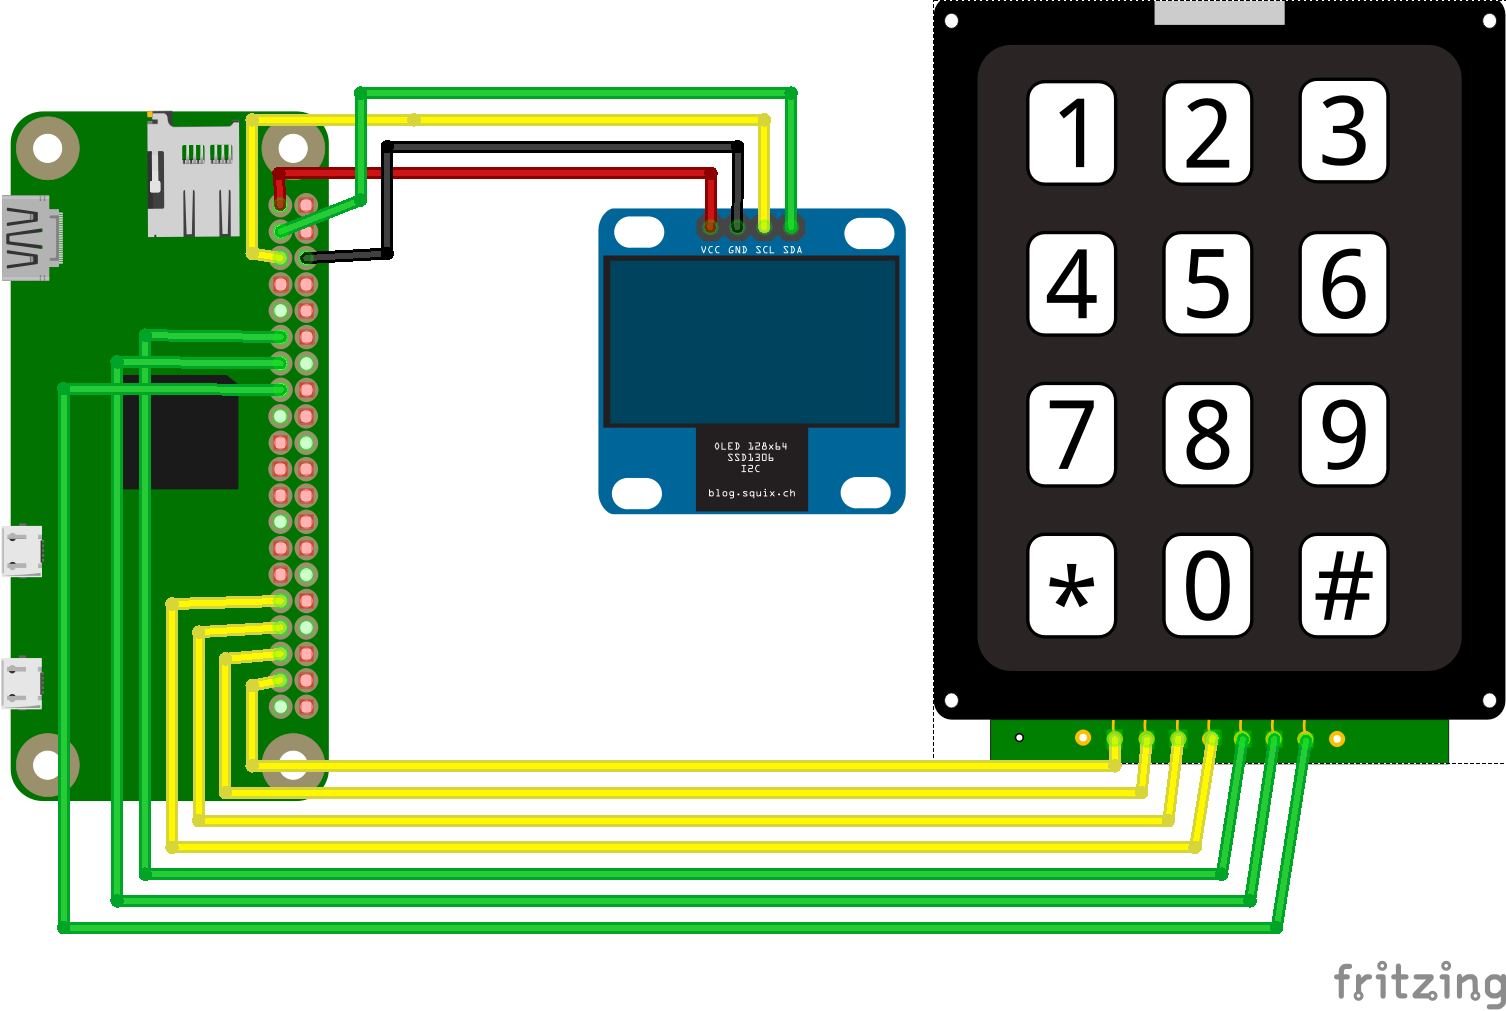
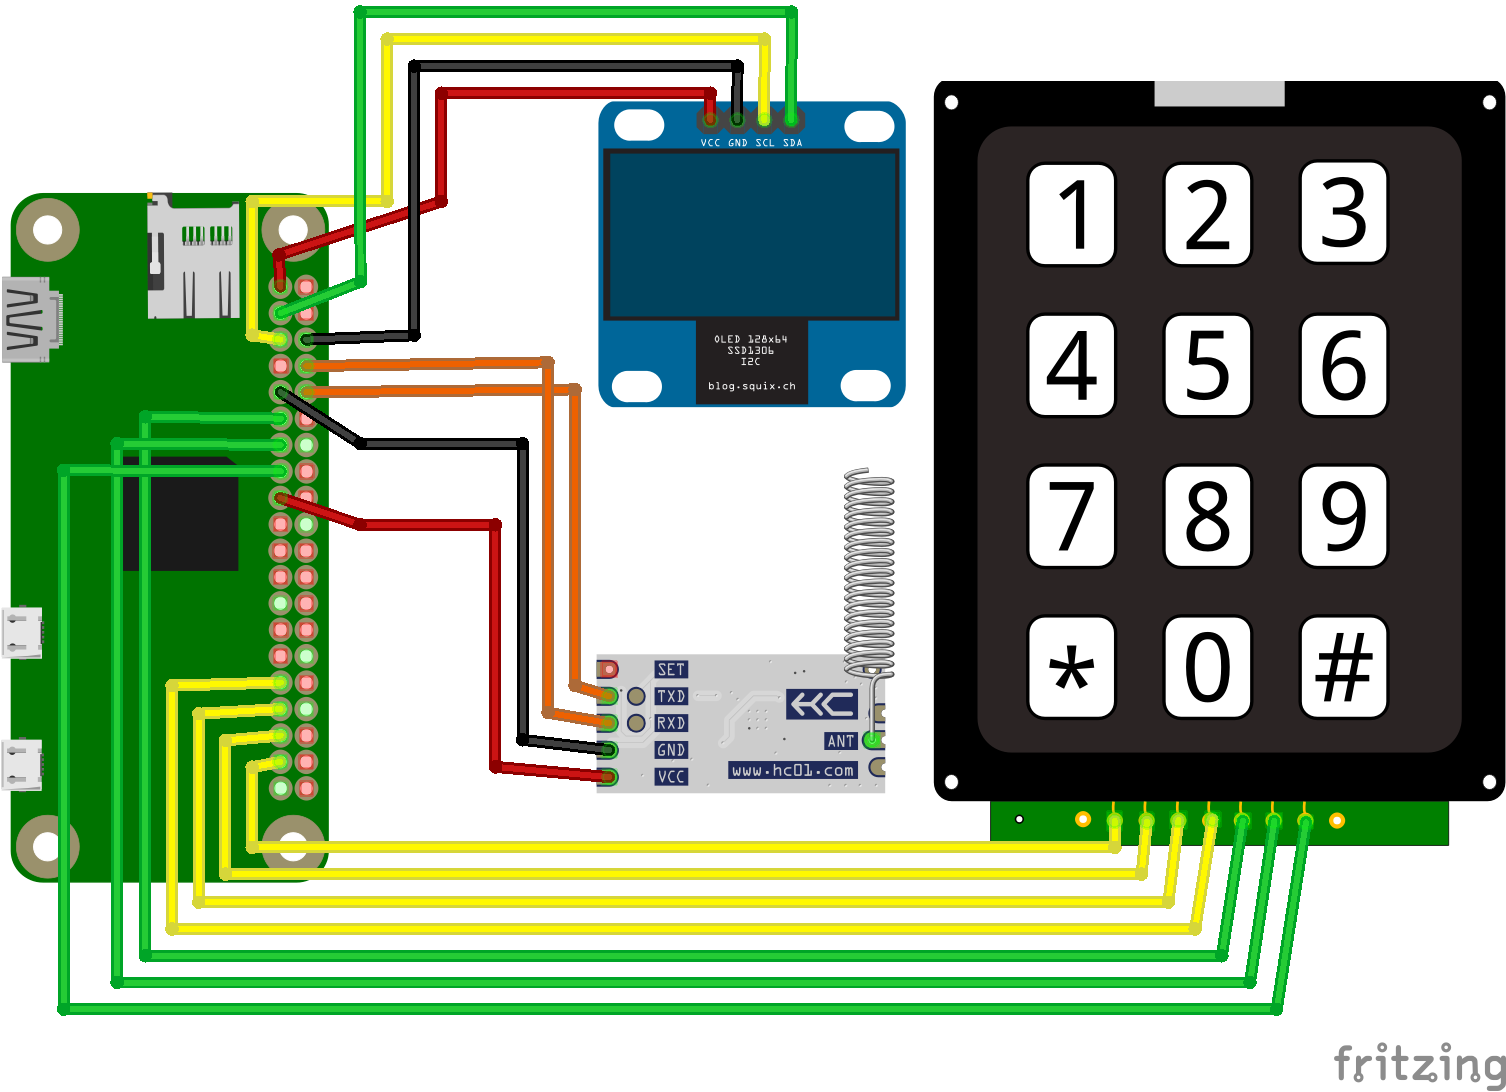
Added Radio Support and Added Comments to Talalib

diff --git a/talalib.py b/talalib.py
@@ -1,5 +1,7 @@
 import time
 
+import serial
+
 import Adafruit_GPIO.SPI as SPI
 import Adafruit_SSD1306
 
@@ -23,19 +25,25 @@ class Tala():
         self.width = self.display.width
         self.height = self.display.height
 
+        # Setup Radio
+        self.radio = serial.Serial("/dev/serial0", baudrate=9600, timeout=1)
 
         # Setup Keypad
         GPIO.setmode(GPIO.BCM)
 
+        # Tell the Raspberry Pi that each row on the keypad is an output
         GPIO.setup(26, GPIO.OUT) # row 1
         GPIO.setup(19, GPIO.OUT) # row 2
         GPIO.setup(13, GPIO.OUT) # row 3
         GPIO.setup(6, GPIO.OUT) # row 4
 
+        # Tell the Raspberry Pi that each column on the keypad is an input and
+        # should have an (internal) pull down resistor.
         GPIO.setup(17, GPIO.IN, pull_up_down=GPIO.PUD_DOWN) # col 1
         GPIO.setup(27, GPIO.IN, pull_up_down=GPIO.PUD_DOWN) # col 2
         GPIO.setup(22, GPIO.IN, pull_up_down=GPIO.PUD_DOWN) # col 3
 
+        # Turn keypad rows off.
         GPIO.output(26, GPIO.LOW)
         GPIO.output(19, GPIO.LOW)
         GPIO.output(13, GPIO.LOW)
@@ -44,11 +52,15 @@ class Tala():
     def singlebutton(self, wait=0.05):
         key = ""
 
+        # Loop while we haven't got a key
         while key == "":
+            # Turn on row 1 but turn off every other row
             GPIO.output(26, GPIO.HIGH)
             GPIO.output(19, GPIO.LOW)
             GPIO.output(13, GPIO.LOW)
             GPIO.output(6, GPIO.LOW)
+            # If the first column is turned on we know that the first
+            # button has been pressed and so on.
             if GPIO.input(17):
                 key = "1"
             if GPIO.input(27):
@@ -93,12 +105,19 @@ class Tala():
         return key
 
     def type(self, wait=0.5):
+        # Make a new image/canvas with the width and height of the screen.
         image = Image.new("1", (self.width, self.height))
+        # Make a new draw variable which draws shapes/text to the screen.
         draw = ImageDraw.Draw(image)
 
+        # Define the fonts
         bigfont = ImageFont.truetype("leco1976.ttf", 45)
         font = ImageFont.truetype("FreePixel.ttf", 14)
 
+        # Define the characters to cycle for each key on the keypad
+        # Special:
+        #   _ = Space
+        #   <- = Backspace
         keypadkeys = {
             "2": ["a", "b", "c"],
             "3": ["d", "e", "f"],
@@ -168,21 +187,32 @@ class Tala():
                 doloop = False
 
             if key != "":
+                # If the key is the same as the key before (aka the button is
+                # being held down.)
                 if key == keybefore:
-                    # hold
+                    # Get the current index of the letter
                     index = keypadkeys[key].index(currentletter)
+                    # Check if adding 1 to the key will make it go off the list
                     if (index+1) < len(keypadkeys[key]):
+                        # Nope, add 1 to the key
                         currentletter = keypadkeys[key][index+1]
                     else:
+                        # Yep, set the list to 0
                         currentletter = keypadkeys[key][0]
                 else:
+                    # Key has not being held, so set the current letter to the
+                    # first on the list of the button.
                     currentletter = keypadkeys[key][0]
 
+                # Clear the canvas by drawing a blank rectangle.
                 draw.rectangle((0, 0, self.width, self.height), outline=0, fill=0)
 
+                # Get the width and height of the letter
                 w, h = draw.textsize(currentletter, font=bigfont)
+                # Draw the letter in the middle of the screen
                 draw.text(((self.width-w)/2, (self.height-h)/2), currentletter, font=bigfont, fill=255)
 
+                # Display the canvas on the screen.
                 self.display.image(image)
                 self.display.display()
 
@@ -190,6 +220,7 @@ class Tala():
                 time.sleep(wait)
             else:
                 if currentletter != "":
+                    # Check for special keys
                     if currentletter != "<-":
                         if currentletter == "_":
                             currentletter = " "
@@ -198,16 +229,24 @@ class Tala():
                         message = message[:-1]
                     currentletter = ""
 
+                # if a key is not pressed show the text being typed
+
+                # clear the canvas by drawing a blank rectangle
                 draw.rectangle((0, 0, self.width, self.height), outline=0, fill=0)
 
+                # make the message wrap (aka if the message goes off the screen
+                # make it start on a new line)
                 messagewrap = textwrap.wrap(message, width=17)
 
+                # get the height of a line
                 linewidth, lineheight = draw.textsize("test", font=font)
                 lines = 0
+                # draw each line
                 for i in range(0, len(messagewrap)):
                     draw.text((5, 5+((lineheight+2)*lines)), messagewrap[i], font=font, fill=255)
                     lines += 1
 
+                # display the canvas to the screen
                 self.display.image(image)
                 self.display.display()
 
@@ -216,43 +255,60 @@ class Tala():
         return message
 
     def cleanup(self):
+        # clean up the raspberry pi's gpio
+        # ie turn off pins, etc..
         GPIO.cleanup()
 
     def message(self, title, body):
+        # make the message wrap (aka if it goes off the screen make it start on
+        # a new line)
         wrapbody = textwrap.wrap(body, width=17)
 
+        # make a new image
         image = Image.new("1", (self.width, self.height))
         draw = ImageDraw.Draw(image)
 
+        # define the fonts
         titlefont = ImageFont.truetype("leco1976.ttf", 15)
         font = ImageFont.truetype("FreePixel.ttf", 14)
 
         startline = 0
 
         while True:
+            # clear the canvas
             draw.rectangle((0, 0, self.width, self.height), outline=0, fill=0)
 
+            # get width and height of title
             titlewidth, titleheight = draw.textsize(title, font=titlefont)
+            # draw a box to put the title in
             draw.rectangle((0, 0, self.width, titleheight+10), outline=255, fill=255)
             padding = 5
+            # draw the title text
             draw.text((0+padding, 0+padding), title, font=titlefont, fill=0)
 
+            # get line width and height
             linewidth, lineheight = draw.textsize("test", font=font)
             lines = 0
+            # draw each line on the screen
             for i in range(startline, len(wrapbody)):
                 draw.text((0+padding, 0+padding+titleheight+padding+padding+((lineheight+2)*lines)), wrapbody[i], font=font, fill=255)
                 lines += 1
 
+            # draw the canvas to the screen
             self.display.image(image)
             self.display.display()
 
+            # check for button presses
             btn = self.singlebutton()
+            # if button 2 is pressed scroll up
             if btn == "2":
                 if startline > 0:
                     startline = startline - 1
+            # if button 8 is pressed scroll down
             elif btn == "8":
                 if startline < (len(wrapbody)-1):
                     startline = startline + 1
+            # if button 5 is pressed dismiss the message
             elif btn == "5":
                 return
 
@@ -260,22 +316,30 @@ class Tala():
         if len(items) < 2:
             raise ValueError("Items list given must contain 2 or more items!")
 
+        # make a canvas
         image = Image.new("1", (self.width, self.height))
         draw = ImageDraw.Draw(image)
 
+        # clear the canvas
         draw.rectangle((0, 0, self.width, self.height), outline=0, fill=0)
 
+        # define font
         font = ImageFont.truetype("leco1976.ttf", 15)
 
         selected = 0
 
         while True:
+            # clear the screen
             draw.rectangle((0, 0, self.width, self.height), outline=0, fill=0)
 
+            # if the first item is selected
             if selected == 0:
+                # draw a filled box the width of the screen and half the screen high
                 draw.rectangle((0, 0, self.width, 32), outline=255, fill=255)
+                # get the width and height of the text
                 tw, th = draw.textsize(items[selected], font=font)
                 padding = (32-th)/2
+                # draw the text on top of the rectangle
                 draw.text((0+padding, 0+padding), items[selected], font=font, fill=0)
 
                 draw.rectangle((0, 32, self.width, 64), outline=0, fill=0)
@@ -324,3 +388,19 @@ class Tala():
     def clear(self):
         self.display.clear()
         self.display.display()
+
+    def send(self, message):
+        message = message.encode()
+        self.radio.write(message)
+
+    def waitForReceive(self):
+        while True:
+            response = self.radio.readline().decode("utf-8")
+            if not response == "":
+                return response
+
+    def receive(self):
+        return self.radio.readline().decode("utf-8")
+
+    def closeRadio(self):
+        self.radio.close()

diff --git a/talalib.md b/talalib.md
@@ -3,7 +3,7 @@ talalib.py is a small python module that allows easy interaction with the sensor
 
 ## Supported Modules
 - [x] **Screen** - [OLED SSD1306 (128x64)](http://www.ebay.co.uk/itm/I2C-OLED-Display-128X64-0-96-SSD1306-For-Arduino-Raspberry-Pi-ESP8266-etc-/172736606184)
-- [ ] **Radio Module** - [HC-12 SI4463](http://www.ebay.co.uk/itm/433Mhz-HC-12-SI4463-Wireless-Serial-Port-Module-1000m-Replace-Bluetooth-TE296-/281772656589)
+- [x] **Radio Module** - [HC-12 SI4463](http://www.ebay.co.uk/itm/433Mhz-HC-12-SI4463-Wireless-Serial-Port-Module-1000m-Replace-Bluetooth-TE296-/281772656589)
 - [x] **Keypad** - [4x3 Keypad](http://www.ebay.co.uk/itm/12-4x3-key-Switch-Membrane-Matrix-KeyPad-Self-Adhesive-Arduino-RPI-PIC-AVR-/131708189209)
 
 ## Setup
@@ -60,6 +60,37 @@ as a string.
 
 ```python
 tala.type()
+# -> "Hello World!"
+```
+
+## `send(message[String])` *[Radio]*
+
+This sends a message via the HC-12 module. The first and only parameter is the
+message to send as a string, there is no output.
+
+```python
+tala.send("Hello World!")
+```
+
+## `waitForReceive()` *[Radio]*
+
+This waits for a message to be received via the HC-12 module. There are no
+parameters and the output is the message received as a string.
+
+```python
+tala.waitForReceive()
+# -> "Hello World!"
+```
+
+## `receive()` *[Radio]*
+
+This receives a message from the HC-12 module. There are no parameters and the
+output will be the message as a string. The string may be empty, in which case
+no message has been received. `waitForReceive()` is the output of this command,
+but in a loop.
+
+```python
+tala.receive()
 # -> "Hello World!"
 ```
 

diff --git a/README.md b/README.md
@@ -10,6 +10,9 @@ project. You can read the documentation for this module [here](talalib.md).
 
 ![](tala_bb.png)
 
+***Wiring for modules may not be as they show in this diagram! We bought 2 OLED
+screens and the pinouts on both are different. Be careful!***
+
 ### Screen
 
 | Screen | Raspberry Pi     |
@@ -21,9 +24,6 @@ project. You can read the documentation for this module [here](talalib.md).
 
 ### Keypad
 
-**Keypad wiring will depend on your keypad! Connections may not be the same on
-the wiring diagram as the keypad that you have!**
-
 | Keypad | Raspberry Pi      |
 | ------ | ----------------- |
 | Row 1  | BCM 26 *(Pin 37)* |
@@ -34,15 +34,22 @@ the wiring diagram as the keypad that you have!**
 | Col 2  | BCM 27 *(Pin 13)* |
 | Col 3  | BCM 22 *(Pin 15)* |
 
-## Installation
+### HC-12 Module
 
-**Installing the Adafruit SSD1306 Module**
+| HC-12 | Raspberry Pi      |
+| ----- | ----------------- |
+| VCC   | 3v3 *(Pin 17)*    |
+| GND   | Ground *(Pin 9)*  |
+| RXD   | BCM 14 *(Pin 8)*  |
+| TXD   | BCM 15 *(Pin 10)* |
+
+## Installation
 
 ```
 sudo apt update
 sudo apt install build-essential python3-dev python3-pip
 
-sudo apt install python3-pil python3-smbus git
+sudo apt install python3-pil python3-smbus python3-serial git
 
 git clone https://github.com/adafruit/Adafruit_Python_SSD1306.git
 cd Adafruit_Python_SSD1306
